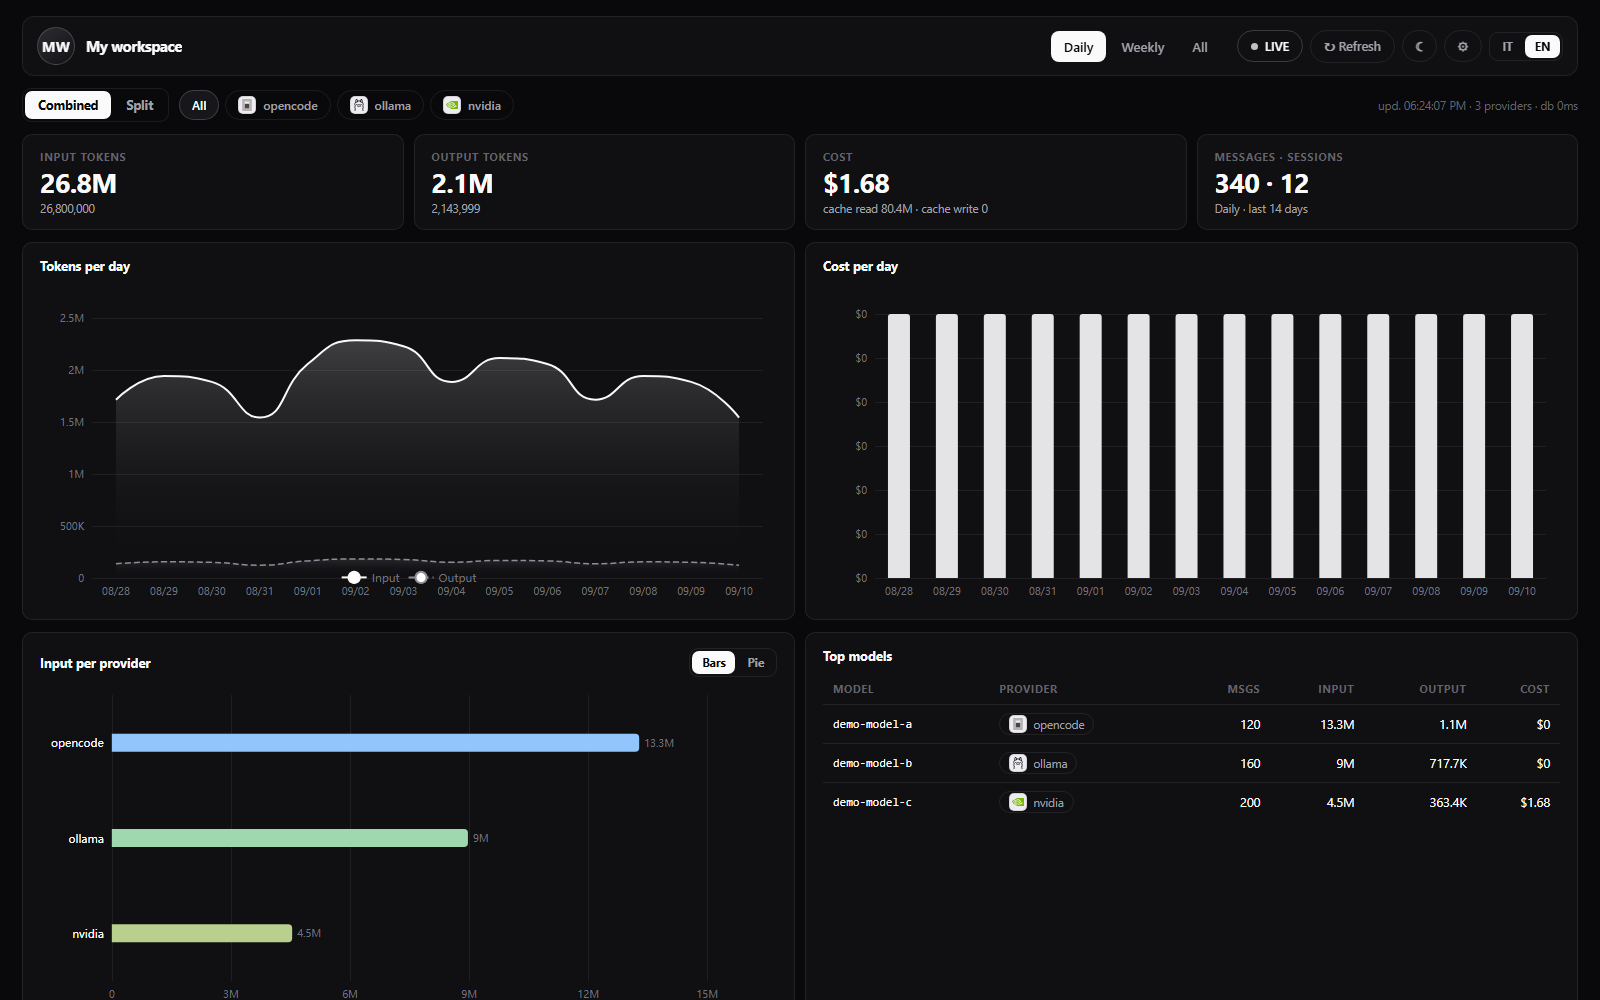
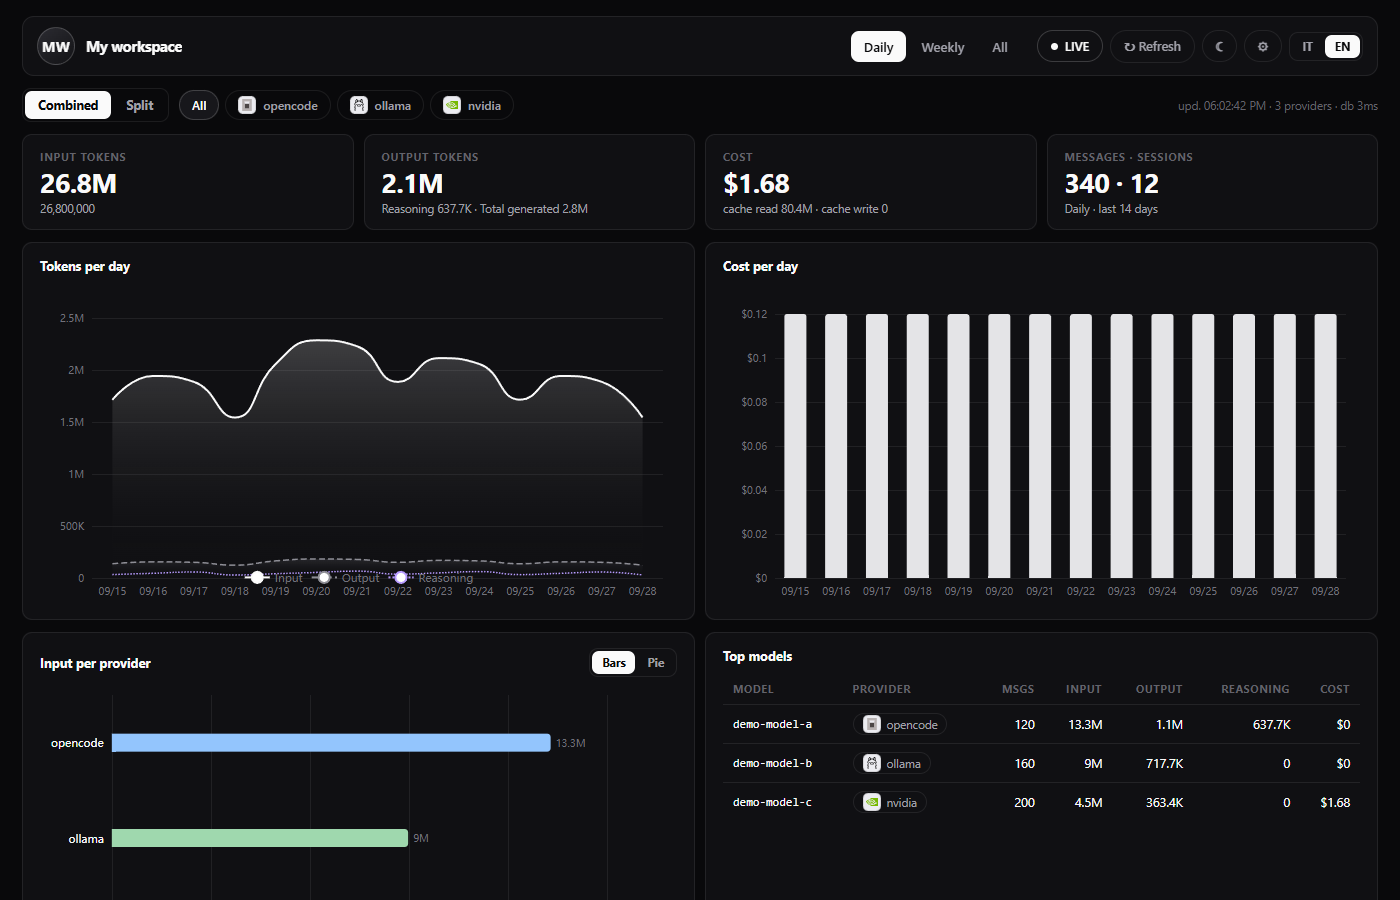
docs: refresh screenshots and feature bullets
Regenerated dashboard-en/it, settings and heatmap-hover via scripts/shots.mjs (headless Edge, demo dataset). Adds npm run shots + playwright devDependency for reproducibility. Feature table now mentions reasoning tokens and the activity heatmap (EN/IT).

diff --git a/README.md b/README.md
@@ -25,9 +25,9 @@ Lightweight desktop dashboard for your OpenCode usage — tokens, costs, charts.
 | | |
 |---|---|
 | 📊 | Input/output tokens, cost, cache — daily, weekly, all-time |
-| 📈 | Line, bar & donut charts, top models, recent sessions |
+| 📈 | Line, bar & donut charts, top models, recent sessions, reasoning tokens |
 | 🎛 | Per-provider filters, Combined / Split views, brand icons |
-| 👤 | Customizable profile (photo, name, bio), light/dark theme |
+| 👤 | Customizable profile (photo, name, bio), activity heatmap, light/dark theme |
 | 🌍 | English + Italian interface |
 | 🔒 | 100% local: read-only DB access, no keys, no auth, no telemetry |
 
@@ -163,9 +163,9 @@ grafici e tabelle, profilo personalizzabile, interfaccia EN/IT.
 | | |
 |---|---|
 | 📊 | Token input/output, costi, cache — giornaliero, settimanale, tutto |
-| 📈 | Grafici linee, barre e torta, top modelli, sessioni recenti |
+| 📈 | Grafici linee, barre e torta, top modelli, sessioni recenti, reasoning |
 | 🎛 | Filtri per provider, viste Sommati / Singoli, loghi brand |
-| 👤 | Profilo personalizzabile (foto, nome, bio), tema chiaro/scuro |
+| 👤 | Profilo personalizzabile (foto, nome, bio), heatmap attività, tema chiaro/scuro |
 | 🌍 | Interfaccia inglese + italiano |
 | 🔒 | 100% locale: sola lettura DB, niente chiavi, niente telemetria |
 
